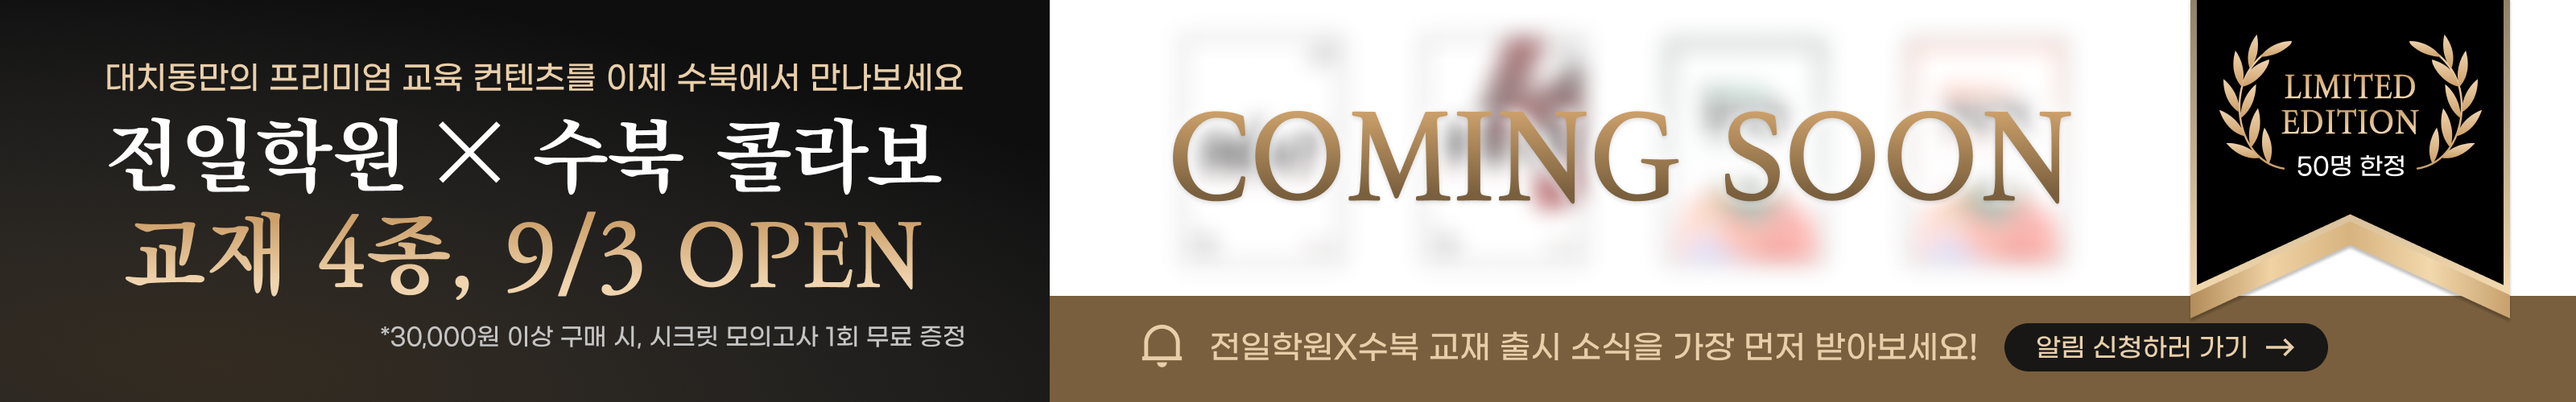
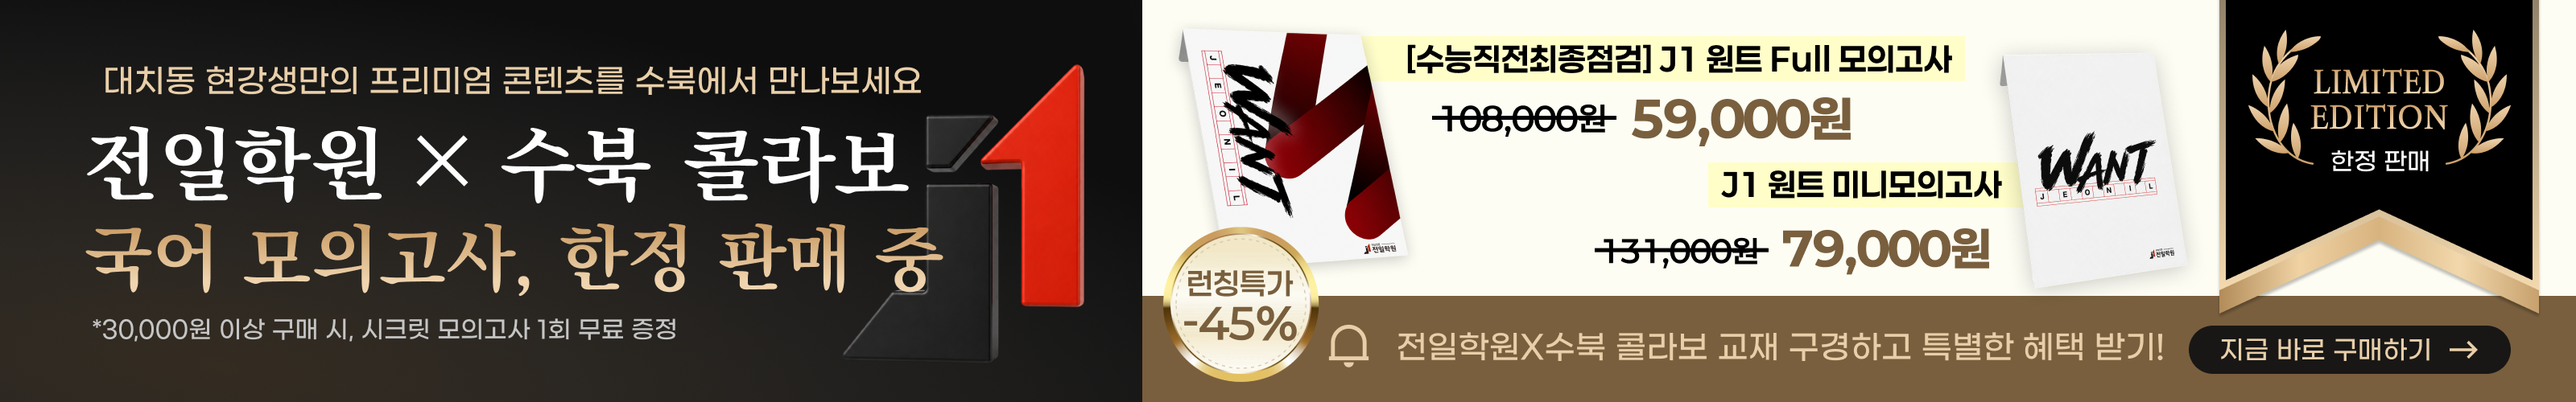
fix: 전일학원 홈 배너를 판매 중 이미지로 교체

diff --git a/apps/public-web/src/lib/publicFeaturedProducts.test.js b/apps/public-web/src/lib/publicFeaturedProducts.test.js
@@ -62,18 +62,19 @@ test("matchesFeaturedEntry prefers an explicit productId over the title", () => 
   assert.equal(matchesFeaturedEntry(entry, { id: "4242", title: "" }), true);
 });
 
-// 실제 레지스트리 회귀 방지 — 등록된 콜라보 상품은 id로 걸리고 출시 전 상태여야 한다.
+// 실제 레지스트리 회귀 방지 — 등록된 콜라보 상품은 id로 걸리고 출시 전 고정 시각에는 잠겨야 한다.
 test("registry resolves the registered collab products by id", () => {
   const full = FEATURED_PRODUCTS.find((entry) => entry.key === "j1-full");
   const mini = FEATURED_PRODUCTS.find((entry) => entry.key === "j1-mini");
   const mini10 = FEATURED_PRODUCTS.find((entry) => entry.key === "j1-mini-10");
+  const beforeRelease = Date.parse("2026-09-03T17:59:00+09:00");
 
   assert.equal(findFeaturedProductEntry({ id: full.productId, title: "" })?.key, "j1-full");
   assert.equal(findFeaturedProductEntry({ id: mini.productId, title: "" })?.key, "j1-mini");
   assert.equal(findFeaturedProductEntry({ id: mini10.productId, title: "" })?.key, "j1-mini-10");
-  assert.equal(isPreReleaseProduct({ id: full.productId }), true);
-  assert.equal(isPreReleaseProduct({ id: mini.productId }), true);
-  assert.equal(isPreReleaseProduct({ id: mini10.productId }), true);
+  assert.equal(isPreReleaseProduct({ id: full.productId }, FEATURED_PRODUCTS, beforeRelease), true);
+  assert.equal(isPreReleaseProduct({ id: mini.productId }, FEATURED_PRODUCTS, beforeRelease), true);
+  assert.equal(isPreReleaseProduct({ id: mini10.productId }, FEATURED_PRODUCTS, beforeRelease), true);
   // 10회분은 미니(30일분)의 상세페이지 이미지를 그대로 쓴다.
   assert.equal(getFeaturedDetailKey(mini10), "j1-mini");
   assert.equal(getFeaturedDetailKey(mini), "j1-mini");
